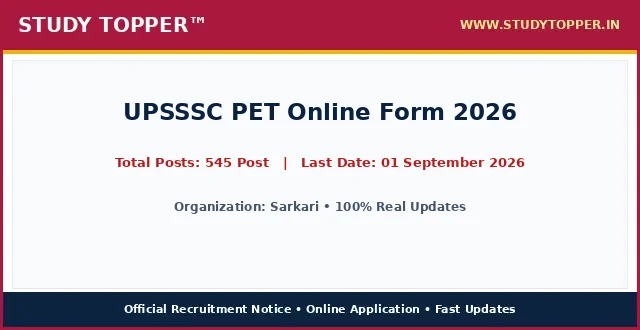
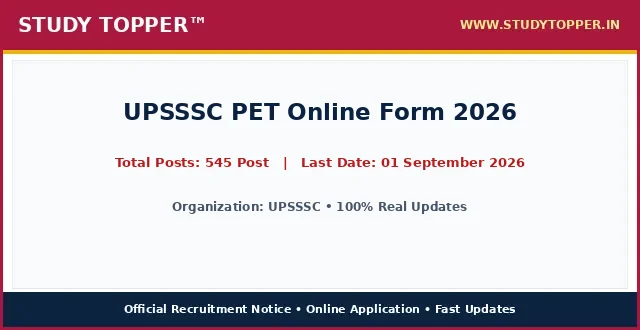
chore(lifecycle): daily auto-sort vacancies and update active dates

Changed region(s): [[0.25, 0.6061, 0.75, 0.6667]]

diff --git a/pages/upsssc-pet-2026.html b/pages/upsssc-pet-2026.html
@@ -987,12 +987,12 @@ ul.wp-block-latest-posts a:hover {
 <main class="site-main" id="main">
 <div class="gb-container gb-container-b39c368c">
 <h1 class="gb-headline gb-headline-e52a0102 gb-headline-text" style="font-size: 22px; font-weight: 700; color: #0000cd; text-align: left; margin: 8px 0 4px 0; line-height: 1.3; width: 100%; font-family: '-apple-system, BlinkMacSystemFont, 'Segoe UI', Roboto, 'Helvetica Neue', Arial, sans-serif', Times, serif, Hind, sans-serif;">UPSSSC PET Online Form 2026</h1>
-<div class="gb-container gb-container-659bd175"><p style="color: #cd0808; font-weight: 700; font-size: 15px; margin: 2px 0 7px 0; text-align: left; font-family: '-apple-system, BlinkMacSystemFont, 'Segoe UI', Roboto, 'Helvetica Neue', Arial, sans-serif', Times, serif, Hind, sans-serif;">Post Date: August 22, 2026 11:46 AM</p></div>
-<p class="gb-headline gb-headline-550ae316 short_Details gb-headline-text" style="width: 100%; max-width: 100%; font-size: 16.8px; line-height: 1.55; color: #000000; text-align: justify; text-justify: inter-word; margin: 8px 0 14px 0; display: block; font-family: '-apple-system, BlinkMacSystemFont, 'Segoe UI', Roboto, 'Helvetica Neue', Arial, sans-serif', Times, serif, Hind, sans-serif;"><strong style="color: #0000cd;">Sarkari</strong> has officially published the recruitment notice <strong style="color: #cd0808;">UPSSSC PET Online Form 2026</strong> under notification number Official Advt 2026. Online applications are invited for 545 Post across multiple departments and cadre positions. Interested candidates possessing the requisite educational qualifications and falling between 18 Years to 40 Years can complete their online registration before the application deadline of 01 September 2026. Applicants should read the eligibility criteria, category reservation rules, and exam scheme thoroughly before submitting applications.</p>
+<div class="gb-container gb-container-659bd175"><p style="color: #cd0808; font-weight: 700; font-size: 15px; margin: 2px 0 7px 0; text-align: left; font-family: '-apple-system, BlinkMacSystemFont, 'Segoe UI', Roboto, 'Helvetica Neue', Arial, sans-serif', Times, serif, Hind, sans-serif;">Post Date: August 22, 2026 12:40 PM</p></div>
+<p class="gb-headline gb-headline-550ae316 short_Details gb-headline-text" style="width: 100%; max-width: 100%; font-size: 16.8px; line-height: 1.55; color: #000000; text-align: justify; text-justify: inter-word; margin: 8px 0 14px 0; display: block; font-family: '-apple-system, BlinkMacSystemFont, 'Segoe UI', Roboto, 'Helvetica Neue', Arial, sans-serif', Times, serif, Hind, sans-serif;"><strong style="color: #0000cd;">UPSSSC</strong> has officially published the recruitment notice <strong style="color: #cd0808;">UPSSSC PET Online Form 2026</strong> under notification number 2026. Online applications are invited for 545 Post across multiple departments and cadre positions. Interested candidates possessing the requisite educational qualifications and falling between 18 Years to 40 Years can complete their online registration before the application deadline of 01 September 2026. Applicants should read the eligibility criteria, category reservation rules, and exam scheme thoroughly before submitting applications.</p>
 <div class="gb-container gb-container-9849916c"><div class="social-buttons-compact" style="display: flex; justify-content: flex-start; align-items: center; gap: 10px; margin: 10px 0 16px 0; width: 100%;"><a class="social-btn-compact wa" href="https://whatsapp.com/channel/0029Va9xyz" rel="noopener" style="background-color: #00d084; color: #ffffff; padding: 10px 18px; border-radius: 4px; text-decoration: none; font-weight: bold; font-size: 15.5px; display: inline-flex; align-items: center; justify-content: center; height: auto;" target="_blank">WhatsApp</a><a class="social-btn-compact tg" href="https://t.me/studytopperofficial" rel="noopener" style="background-color: #0088cc; color: #ffffff; padding: 10px 18px; border-radius: 4px; text-decoration: none; font-weight: bold; font-size: 15.5px; display: inline-flex; align-items: center; justify-content: center; height: auto;" target="_blank">Telegram</a></div></div>
 <div class="gb-container gb-container-f58e6ca1" style="border: 2px solid #5b032f; border-radius: 4px; overflow: hidden; margin: 15px 0 20px 0; background-color: #ffffff; width: 100%; box-sizing: border-box;">
 <h2 class="gb-headline gb-headline-2ca5a791 gb-headline-text" style="font-size: 16px; font-weight: 700; text-align: center; color: #ef0303; line-height: 1.3; padding: 6px 4px; margin: 0; background: #ffffff; font-family: '-apple-system, BlinkMacSystemFont, 'Segoe UI', Roboto, 'Helvetica Neue', Arial, sans-serif', Times, serif, Hind, sans-serif;">UPSSSC PET Online Form 2026 &ndash; Latest Details &amp; Updates</h2>
-<h3 class="gb-headline gb-headline-7d5f86e8 gb-headline-text" style="font-size: 16px; font-weight: 600; text-align: center; color: #009703; line-height: 1.25; margin: 0; padding: 2px 4px 6px 4px; background: #ffffff; font-family: '-apple-system, BlinkMacSystemFont, 'Segoe UI', Roboto, 'Helvetica Neue', Arial, sans-serif', Times, serif, Hind, sans-serif;">Sarkari : Details &amp; Summary</h3>
+<h3 class="gb-headline gb-headline-7d5f86e8 gb-headline-text" style="font-size: 16px; font-weight: 600; text-align: center; color: #009703; line-height: 1.25; margin: 0; padding: 2px 4px 6px 4px; background: #ffffff; font-family: '-apple-system, BlinkMacSystemFont, 'Segoe UI', Roboto, 'Helvetica Neue', Arial, sans-serif', Times, serif, Hind, sans-serif;">UPSSSC : Details &amp; Summary</h3>
 <p class="gb-headline gb-headline-79adf169 gb-headline-text" style="margin: 0 0 6px 0; font-family: '-apple-system, BlinkMacSystemFont, 'Segoe UI', Roboto, 'Helvetica Neue', Arial, sans-serif', Times, serif, Hind, sans-serif; text-align: center; font-size: 18px; font-weight: 700;"><a href="/" style="color: #0000ff; text-decoration: underline;">StudyTopper.in</a></p>
 
 <style id="st-post-boxes-responsive-css">
@@ -1025,7 +1025,7 @@ ul.wp-block-latest-posts a:hover {
     <div style="background-color: #5b032f; color: #ffffff; padding: 8px 10px; font-size: 20px; font-weight: 700; text-align: center; font-family: '-apple-system, BlinkMacSystemFont, 'Segoe UI', Roboto, 'Helvetica Neue', Arial, sans-serif', Times, serif, Hind, sans-serif;">Important Dates</div>
     <div style="padding: 12px 14px; background-color: #ffffff;">
       <ul style="padding-left: 20px; margin: 0; list-style-type: disc; text-align: left; font-size: 14pt; line-height: 1.6; font-family: '-apple-system, BlinkMacSystemFont, 'Segoe UI', Roboto, 'Helvetica Neue', Arial, sans-serif', Times, serif, Hind, sans-serif;">
-        
+        <li><span style="font-size: 14pt;">Application Begin : <strong>As per Official Notification</strong></span></li><li><span style="font-size: 14pt;">Last Date for Apply Online : <span style="color: #ff0000;"><strong>01 September 2026</strong></span></span></li><li><span style="font-size: 14pt;">Pay Exam Fee Last Date : <span style="color: #ff0000;"><strong>01 September 2026</strong></span></span></li><li><span style="font-size: 14pt;">Exam Date : <strong>As per Schedule</strong></span></li><li><span style="font-size: 14pt;">Admit Card Available : <strong>Before Examination</strong></span></li>
       </ul>
     </div>
   </div>
@@ -1034,7 +1034,7 @@ ul.wp-block-latest-posts a:hover {
     <div style="background-color: #5b032f; color: #ffffff; padding: 8px 10px; font-size: 20px; font-weight: 700; text-align: center; font-family: '-apple-system, BlinkMacSystemFont, 'Segoe UI', Roboto, 'Helvetica Neue', Arial, sans-serif', Times, serif, Hind, sans-serif;">Application Fee</div>
     <div style="padding: 12px 14px; background-color: #ffffff;">
       <ul style="padding-left: 20px; margin: 0; list-style-type: disc; text-align: left; font-size: 14pt; line-height: 1.6; font-family: '-apple-system, BlinkMacSystemFont, 'Segoe UI', Roboto, 'Helvetica Neue', Arial, sans-serif', Times, serif, Hind, sans-serif;">
-        <li><span style="font-size: 14pt;">Bihar Police BPSSC Sub Inspector SI Prohibition Result 2026 Advt. No. : <strong>03/2026</strong></span></li><li><span style="font-size: 14pt;">UP Scholarship Online Form 2026 : <strong>2027</strong></span></li>
+        <li><span style="font-size: 14pt;">General / OBC / EWS : <strong>Check Official Notification</strong></span></li><li><span style="font-size: 14pt;">SC / ST / PH : <strong>Check Official Notification</strong></span></li><li><span style="font-size: 14pt;">Payment Mode : <strong>Online Fee Mode via Net Banking, Debit/Credit Card or Offline Challan</strong></span></li>
       </ul>
       <div style="margin-top: 10px; font-size: 14pt; line-height: 1.5; color: #000000; border-top: 1px dashed #ccc; padding-top: 8px; font-family: '-apple-system, BlinkMacSystemFont, 'Segoe UI', Roboto, 'Helvetica Neue', Arial, sans-serif', Times, serif, Hind, sans-serif;">
         <strong>Mode of Payment / Access:</strong> Online via Net Banking, Debit Card, Credit Card, UPI or Free Candidate Portal.
@@ -1047,10 +1047,10 @@ ul.wp-block-latest-posts a:hover {
 <div class="st-grid-row" style="display: flex; flex-wrap: wrap; width: 100%; border-top: 2px solid #5b032f; margin: 0; padding: 0; box-sizing: border-box;">
   <!-- Left Col: Age Limits -->
   <div class="st-col-half st-col-border-right" style="box-sizing: border-box; vertical-align: top;">
-    <div style="background-color: #046132; color: #ffffff; padding: 8px 10px; font-size: 17px; font-weight: 700; text-align: center; font-family: '-apple-system, BlinkMacSystemFont, 'Segoe UI', Roboto, 'Helvetica Neue', Arial, sans-serif', Times, serif, Hind, sans-serif;">Sarkari : Age Limits As On 01 August 2026</div>
+    <div style="background-color: #046132; color: #ffffff; padding: 8px 10px; font-size: 17px; font-weight: 700; text-align: center; font-family: '-apple-system, BlinkMacSystemFont, 'Segoe UI', Roboto, 'Helvetica Neue', Arial, sans-serif', Times, serif, Hind, sans-serif;">UPSSSC : Age Limits As On 01/08/2026</div>
     <div style="padding: 12px 14px; background-color: #ffffff;">
       <ul style="padding-left: 20px; margin: 0; list-style-type: disc; text-align: left; font-size: 14pt; line-height: 1.6; font-family: '-apple-system, BlinkMacSystemFont, 'Segoe UI', Roboto, 'Helvetica Neue', Arial, sans-serif', Times, serif, Hind, sans-serif;">
-        
+        <li><span style="font-size: 14pt;">Minimum Age : <strong>18 Years (As per post rules)</strong></span></li><li><span style="font-size: 14pt;">Maximum Age : <strong>40 Years (As per post rules)</strong></span></li><li><span style="font-size: 14pt;">Age Relaxation : <strong>Age Relaxation Extra as per UPSSSC Recruitment Rules.</strong></span></li>
       </ul>
     </div>
   </div>
@@ -1079,9 +1079,9 @@ ul.wp-block-latest-posts a:hover {
 <th style="background-color: #f53c00; color: #ffffff; padding: 6px 10px; text-align: center; border: 1px solid #d35400; font-size: 15px; font-weight: 700; font-family: '-apple-system, BlinkMacSystemFont, 'Segoe UI', Roboto, 'Helvetica Neue', Arial, sans-serif', Times, serif, Hind, sans-serif;">Eligibility Criteria</th>
 </tr>
 <tr>
-<td style="padding: 8px; border: 1px solid #ddd; font-weight: bold;">Sarkari Recruitment</td>
+<td style="padding: 8px; border: 1px solid #ddd; font-weight: bold;">UPSSSC UPSSSC PET Online Form 2026</td>
 <td style="padding: 8px; border: 1px solid #ddd; text-align: center; font-weight: bold;">545 Post</td>
-<td style="padding: 8px; border: 1px solid #ddd;">Please refer to the official notification linked below for detailed educational qualifications.</td>
+<td style="padding: 8px; border: 1px solid #ddd;">Passed relevant Educational Qualification from Any Recognized Board / University in India. Read full official notification for post-wise details.</td>
 </tr>
 </tbody>
 </table>
@@ -1093,10 +1093,10 @@ ul.wp-block-latest-posts a:hover {
 <table style="border-collapse: collapse; width: 100%;">
 <tbody>
 <tr>
-<td style="width: 100%; text-align: center;"><span style="background-color: #000080; color: #ffffff; font-size: 14pt; font-weight: bold; display: block; padding: 6px;"> How to Fill Sarkari Online Application Form </span></td>
+<td style="width: 100%; text-align: center;"><span style="background-color: #000080; color: #ffffff; font-size: 14pt; font-weight: bold; display: block; padding: 6px;"> How to Fill UPSSSC Online Application Form </span></td>
 </tr>
 <tr>
-<td style="width: 100%;"><ol style="margin:0; padding-left:18px; text-align: left !important; list-style-position: outside !important"><li style="margin-bottom:6px; text-align: left !important;">Read the official recruitment notification carefully before applying.</li><li style="margin-bottom:6px; text-align: left !important;">Keep all basic documents ready: ID Proof, Address Details, Basic Details.</li><li style="margin-bottom:6px; text-align: left !important;">Ready your scanned documents like Photo, Signature, ID Proof, etc.</li><li style="margin-bottom:6px; text-align: left !important;">Click on the 'Apply Online' link given in the Important Links section below.</li><li style="margin-bottom:6px; text-align: left !important;">Fill out all the columns in the application form accurately.</li><li style="margin-bottom:6px; text-align: left !important;">Pay the required application fee if applicable.</li><li style="margin-bottom:6px; text-align: left !important;">Take a printout of the final submitted application form.</li><li style="margin-bottom:6px; text-align: left !important;">Resize candidate photograph and signature accurately using the <a href="https://indtool.in" rel="noopener" target="_blank"><strong>StudyTopper Tools</strong></a> image resizer at indtool.in.</li></ol></td>
+<td style="width: 100%;"><ol style="margin:0; padding-left:18px; text-align: left !important; list-style-position: outside !important"><li style="margin-bottom:6px; text-align: left !important;">Candidate must read the complete official notification issued by UPSSSC before applying.</li><li style="margin-bottom:6px; text-align: left !important;">Collect and verify all essential documents including Educational Proof, ID Proof, Address Details, and Basic Details.</li><li style="margin-bottom:6px; text-align: left !important;">Scan all necessary documents accurately: Passport Size Photograph, Signature, ID Proof, and Category Certificate.</li><li style="margin-bottom:6px; text-align: left !important;">Click on the 'Apply Online' link given in the Important Links section below on StudyTopper.</li><li style="margin-bottom:6px; text-align: left !important;">Fill all required personal, educational, and communication details in the application form carefully.</li><li style="margin-bottom:6px; text-align: left !important;">Review the application form preview thoroughly before final submission.</li><li style="margin-bottom:6px; text-align: left !important;">Pay the prescribed examination fee through online payment gateway if applicable.</li><li style="margin-bottom:6px; text-align: left !important;">Take a clean printout of the final submitted application form for future reference.</li><li style="margin-bottom:6px; text-align: left !important;">Resize candidate photograph and signature accurately using the <a href="https://indtool.in" rel="noopener" target="_blank"><strong>StudyTopper Tools</strong></a> image resizer at indtool.in.</li></ol></td>
 </tr>
 </tbody>
 </table>
@@ -1104,7 +1104,7 @@ ul.wp-block-latest-posts a:hover {
 <table style="border-collapse: collapse; width: 100%;">
 <tbody>
 <tr>
-<td style="width: 100%; text-align: center;"><span style="background-color: #000080; color: #ffffff; font-size: 14pt;"><strong><span style="color: #ffffff;"> Sarkari Recruitment 2026 : Mode Of Selection </span></strong></span></td>
+<td style="width: 100%; text-align: center;"><span style="background-color: #000080; color: #ffffff; font-size: 14pt;"><strong><span style="color: #ffffff;"> UPSSSC Recruitment 2026 : Mode Of Selection </span></strong></span></td>
 </tr>
 <tr>
 <td style="width: 100%;">
@@ -1144,26 +1144,34 @@ ul.wp-block-latest-posts a:hover {
 
 <tr style="border-bottom: 1px solid #000000; background-color: #fff37a;">
 <td style="width: 50%; padding: 14px 16px; border-right: 1px solid #000000; text-align: center;">
-<span style="font-size: 19px; font-weight: 800; color: #000000; font-family: '-apple-system, BlinkMacSystemFont, 'Segoe UI', Roboto, 'Helvetica Neue', Arial, sans-serif', Times, serif, Hind, sans-serif;">Apply Online Link</span>
+<span style="font-size: 19px; font-weight: 800; color: #000000; font-family: '-apple-system, BlinkMacSystemFont, 'Segoe UI', Roboto, 'Helvetica Neue', Arial, sans-serif', Times, serif, Hind, sans-serif;">Join Our WhatsApp Channel</span>
 </td>
 <td style="width: 50%; padding: 14px 16px; text-align: center;">
-<span style="font-size: 20px; font-weight: 800; font-family: '-apple-system, BlinkMacSystemFont, 'Segoe UI', Roboto, 'Helvetica Neue', Arial, sans-serif', Times, serif, Hind, sans-serif;"><a href="https://www.sarkariresult.com/2026/mpesb-group2-subgroup-4-aug26/" aria-label="Click Here for Apply Online Link - UPSSSC PET Online Form 2026" rel="noopener noreferrer" style="color: #0000ef; font-weight: 800; text-decoration: none;" target="_blank">Click Here</a></span>
+<span style="font-size: 20px; font-weight: 800; font-family: '-apple-system, BlinkMacSystemFont, 'Segoe UI', Roboto, 'Helvetica Neue', Arial, sans-serif', Times, serif, Hind, sans-serif;"><a href="https://whatsapp.com/channel/0029VavXmlBEAKWFRHeXwL28" aria-label="Click Here for Join Our WhatsApp Channel - UPSSSC PET Online Form 2026" rel="noopener noreferrer" style="color: #0000ef; font-weight: 800; text-decoration: none;" target="_blank">Click Here</a></span>
 </td>
 </tr>
 <tr style="border-bottom: 1px solid #000000; background-color: #fff37a;">
 <td style="width: 50%; padding: 14px 16px; border-right: 1px solid #000000; text-align: center;">
-<span style="font-size: 19px; font-weight: 800; color: #000000; font-family: '-apple-system, BlinkMacSystemFont, 'Segoe UI', Roboto, 'Helvetica Neue', Arial, sans-serif', Times, serif, Hind, sans-serif;">Check Official Notification</span>
+<span style="font-size: 19px; font-weight: 800; color: #000000; font-family: '-apple-system, BlinkMacSystemFont, 'Segoe UI', Roboto, 'Helvetica Neue', Arial, sans-serif', Times, serif, Hind, sans-serif;">Join Our Telegram Channel</span>
 </td>
 <td style="width: 50%; padding: 14px 16px; text-align: center;">
-<span style="font-size: 20px; font-weight: 800; font-family: '-apple-system, BlinkMacSystemFont, 'Segoe UI', Roboto, 'Helvetica Neue', Arial, sans-serif', Times, serif, Hind, sans-serif;"><a href="" aria-label="Click Here for Check Official Notification - UPSSSC PET Online Form 2026" rel="noopener noreferrer" style="color: #0000ef; font-weight: 800; text-decoration: none;" target="_blank">Click Here</a></span>
+<span style="font-size: 20px; font-weight: 800; font-family: '-apple-system, BlinkMacSystemFont, 'Segoe UI', Roboto, 'Helvetica Neue', Arial, sans-serif', Times, serif, Hind, sans-serif;"><a href="https://t.me/sarkariresultoficial" aria-label="Click Here for Join Our Telegram Channel - UPSSSC PET Online Form 2026" rel="noopener noreferrer" style="color: #0000ef; font-weight: 800; text-decoration: none;" target="_blank">Click Here</a></span>
 </td>
 </tr>
 <tr style="border-bottom: 1px solid #000000; background-color: #fff37a;">
 <td style="width: 50%; padding: 14px 16px; border-right: 1px solid #000000; text-align: center;">
-<span style="font-size: 19px; font-weight: 800; color: #000000; font-family: '-apple-system, BlinkMacSystemFont, 'Segoe UI', Roboto, 'Helvetica Neue', Arial, sans-serif', Times, serif, Hind, sans-serif;">Photo / Sign Resizer Tool</span>
+<span style="font-size: 19px; font-weight: 800; color: #000000; font-family: '-apple-system, BlinkMacSystemFont, 'Segoe UI', Roboto, 'Helvetica Neue', Arial, sans-serif', Times, serif, Hind, sans-serif;">Apply Online</span>
 </td>
 <td style="width: 50%; padding: 14px 16px; text-align: center;">
-<span style="font-size: 20px; font-weight: 800; font-family: '-apple-system, BlinkMacSystemFont, 'Segoe UI', Roboto, 'Helvetica Neue', Arial, sans-serif', Times, serif, Hind, sans-serif;"><a href="https://indtool.in" aria-label="Click Here for Photo / Sign Resizer Tool - UPSSSC PET Online Form 2026" rel="noopener noreferrer" style="color: #0000ef; font-weight: 800; text-decoration: none;" target="_blank">Click Here</a></span>
+<span style="font-size: 20px; font-weight: 800; font-family: '-apple-system, BlinkMacSystemFont, 'Segoe UI', Roboto, 'Helvetica Neue', Arial, sans-serif', Times, serif, Hind, sans-serif;"><a href="https://upsssc.gov.in/AllNotifications.aspx" aria-label="Click Here for Apply Online - UPSSSC PET Online Form 2026" rel="noopener noreferrer" style="color: #0000ef; font-weight: 800; text-decoration: none;" target="_blank">Click Here</a></span>
+</td>
+</tr>
+<tr style="border-bottom: 1px solid #000000; background-color: #fff37a;">
+<td style="width: 50%; padding: 14px 16px; border-right: 1px solid #000000; text-align: center;">
+<span style="font-size: 19px; font-weight: 800; color: #000000; font-family: '-apple-system, BlinkMacSystemFont, 'Segoe UI', Roboto, 'Helvetica Neue', Arial, sans-serif', Times, serif, Hind, sans-serif;">Official Notification</span>
+</td>
+<td style="width: 50%; padding: 14px 16px; text-align: center;">
+<span style="font-size: 20px; font-weight: 800; font-family: '-apple-system, BlinkMacSystemFont, 'Segoe UI', Roboto, 'Helvetica Neue', Arial, sans-serif', Times, serif, Hind, sans-serif;"><a href="https://upsssc.gov.in/ViewPdf.aspx?mQakfo5LrW2Cdx4YG2/st+GVGmBBNX8aG1X69whn6lU=" aria-label="Click Here for Official Notification - UPSSSC PET Online Form 2026" rel="noopener noreferrer" style="color: #0000ef; font-weight: 800; text-decoration: none;" target="_blank">Click Here</a></span>
 </td>
 </tr>
 <tr style="border-bottom: 1px solid #000000; background-color: #fff37a;">
@@ -1171,15 +1179,55 @@ ul.wp-block-latest-posts a:hover {
 <span style="font-size: 19px; font-weight: 800; color: #000000; font-family: '-apple-system, BlinkMacSystemFont, 'Segoe UI', Roboto, 'Helvetica Neue', Arial, sans-serif', Times, serif, Hind, sans-serif;">Check Sarkari Result</span>
 </td>
 <td style="width: 50%; padding: 14px 16px; text-align: center;">
-<span style="font-size: 20px; font-weight: 800; font-family: '-apple-system, BlinkMacSystemFont, 'Segoe UI', Roboto, 'Helvetica Neue', Arial, sans-serif', Times, serif, Hind, sans-serif;"><a href="/" aria-label="Click Here for Check Sarkari Result - UPSSSC PET Online Form 2026" rel="noopener noreferrer" style="color: #0000ef; font-weight: 800; text-decoration: none;" >Click Here</a></span>
+<span style="font-size: 20px; font-weight: 800; font-family: '-apple-system, BlinkMacSystemFont, 'Segoe UI', Roboto, 'Helvetica Neue', Arial, sans-serif', Times, serif, Hind, sans-serif;"><a href="https://sarkariresult.com.cm/" aria-label="Click Here for Check Sarkari Result - UPSSSC PET Online Form 2026" rel="noopener noreferrer" style="color: #0000ef; font-weight: 800; text-decoration: none;" target="_blank">Click Here</a></span>
+</td>
+</tr>
+<tr style="border-bottom: 1px solid #000000; background-color: #fff37a;">
+<td style="width: 50%; padding: 14px 16px; border-right: 1px solid #000000; text-align: center;">
+<span style="font-size: 19px; font-weight: 800; color: #000000; font-family: '-apple-system, BlinkMacSystemFont, 'Segoe UI', Roboto, 'Helvetica Neue', Arial, sans-serif', Times, serif, Hind, sans-serif;">Official Website</span>
+</td>
+<td style="width: 50%; padding: 14px 16px; text-align: center;">
+<span style="font-size: 20px; font-weight: 800; font-family: '-apple-system, BlinkMacSystemFont, 'Segoe UI', Roboto, 'Helvetica Neue', Arial, sans-serif', Times, serif, Hind, sans-serif;"><a href="https://upsssc.gov.in/" aria-label="Click Here for Official Website - UPSSSC PET Online Form 2026" rel="noopener noreferrer" style="color: #0000ef; font-weight: 800; text-decoration: none;" target="_blank">Click Here</a></span>
+</td>
+</tr>
+<tr style="border-bottom: 1px solid #000000; background-color: #fff37a;">
+<td style="width: 50%; padding: 14px 16px; border-right: 1px solid #000000; text-align: center;">
+<span style="font-size: 19px; font-weight: 800; color: #000000; font-family: '-apple-system, BlinkMacSystemFont, 'Segoe UI', Roboto, 'Helvetica Neue', Arial, sans-serif', Times, serif, Hind, sans-serif;">Latest Posts Haryana HTET Score Card 2026 – Out SSC Delhi Police Constable (Executive) PE & MT Notice 2026 UPSC CDS-II Final Result With Marks 2026 IDBI JAM Final Result 2026 Railway RRB ALP Application Status 2026 – Out</span>
+</td>
+<td style="width: 50%; padding: 14px 16px; text-align: center;">
+<span style="font-size: 20px; font-weight: 800; font-family: '-apple-system, BlinkMacSystemFont, 'Segoe UI', Roboto, 'Helvetica Neue', Arial, sans-serif', Times, serif, Hind, sans-serif;"><a href="https://sarkariresult.com.cm/ssc-delhi-police-constable-executive-2026/" aria-label="Click Here for Latest Posts Haryana HTET Score Card 2026 – Out SSC Delhi Police Constable (Executive) PE & MT Notice 2026 UPSC CDS-II Final Result With Marks 2026 IDBI JAM Final Result 2026 Railway RRB ALP Application Status 2026 – Out - UPSSSC PET Online Form 2026" rel="noopener noreferrer" style="color: #0000ef; font-weight: 800; text-decoration: none;" target="_blank">Click Here</a></span>
+</td>
+</tr>
+<tr style="border-bottom: 1px solid #000000; background-color: #fff37a;">
+<td style="width: 50%; padding: 14px 16px; border-right: 1px solid #000000; text-align: center;">
+<span style="font-size: 19px; font-weight: 800; color: #000000; font-family: '-apple-system, BlinkMacSystemFont, 'Segoe UI', Roboto, 'Helvetica Neue', Arial, sans-serif', Times, serif, Hind, sans-serif;">Latest Posts Haryana HTET Score Card 2026 – Out SSC Delhi Police Constable (Executive) PE & MT Notice 2026 UPSC CDS-II Final Result With Marks 2026 IDBI JAM Final Result 2026 Railway RRB ALP Application Status 2026 – Out</span>
+</td>
+<td style="width: 50%; padding: 14px 16px; text-align: center;">
+<span style="font-size: 20px; font-weight: 800; font-family: '-apple-system, BlinkMacSystemFont, 'Segoe UI', Roboto, 'Helvetica Neue', Arial, sans-serif', Times, serif, Hind, sans-serif;"><a href="https://sarkariresult.com.cm/ssc-selection-phase-14-2026/" aria-label="Click Here for Latest Posts Haryana HTET Score Card 2026 – Out SSC Delhi Police Constable (Executive) PE & MT Notice 2026 UPSC CDS-II Final Result With Marks 2026 IDBI JAM Final Result 2026 Railway RRB ALP Application Status 2026 – Out - UPSSSC PET Online Form 2026" rel="noopener noreferrer" style="color: #0000ef; font-weight: 800; text-decoration: none;" target="_blank">Click Here</a></span>
+</td>
+</tr>
+<tr style="border-bottom: 1px solid #000000; background-color: #fff37a;">
+<td style="width: 50%; padding: 14px 16px; border-right: 1px solid #000000; text-align: center;">
+<span style="font-size: 19px; font-weight: 800; color: #000000; font-family: '-apple-system, BlinkMacSystemFont, 'Segoe UI', Roboto, 'Helvetica Neue', Arial, sans-serif', Times, serif, Hind, sans-serif;">Latest Posts Haryana HTET Score Card 2026 – Out SSC Delhi Police Constable (Executive) PE & MT Notice 2026 UPSC CDS-II Final Result With Marks 2026 IDBI JAM Final Result 2026 Railway RRB ALP Application Status 2026 – Out</span>
+</td>
+<td style="width: 50%; padding: 14px 16px; text-align: center;">
+<span style="font-size: 20px; font-weight: 800; font-family: '-apple-system, BlinkMacSystemFont, 'Segoe UI', Roboto, 'Helvetica Neue', Arial, sans-serif', Times, serif, Hind, sans-serif;"><a href="https://sarkariresult.com.cm/upsssc-stenographer-2025/" aria-label="Click Here for Latest Posts Haryana HTET Score Card 2026 – Out SSC Delhi Police Constable (Executive) PE & MT Notice 2026 UPSC CDS-II Final Result With Marks 2026 IDBI JAM Final Result 2026 Railway RRB ALP Application Status 2026 – Out - UPSSSC PET Online Form 2026" rel="noopener noreferrer" style="color: #0000ef; font-weight: 800; text-decoration: none;" target="_blank">Click Here</a></span>
+</td>
+</tr>
+<tr style="border-bottom: 1px solid #000000; background-color: #fff37a;">
+<td style="width: 50%; padding: 14px 16px; border-right: 1px solid #000000; text-align: center;">
+<span style="font-size: 19px; font-weight: 800; color: #000000; font-family: '-apple-system, BlinkMacSystemFont, 'Segoe UI', Roboto, 'Helvetica Neue', Arial, sans-serif', Times, serif, Hind, sans-serif;">Latest Posts Haryana HTET Score Card 2026 – Out SSC Delhi Police Constable (Executive) PE & MT Notice 2026 UPSC CDS-II Final Result With Marks 2026 IDBI JAM Final Result 2026 Railway RRB ALP Application Status 2026 – Out</span>
+</td>
+<td style="width: 50%; padding: 14px 16px; text-align: center;">
+<span style="font-size: 20px; font-weight: 800; font-family: '-apple-system, BlinkMacSystemFont, 'Segoe UI', Roboto, 'Helvetica Neue', Arial, sans-serif', Times, serif, Hind, sans-serif;"><a href="https://sarkariresult.com.cm/railway-rrb-group-d-level-1-recruitment-2026-online/" aria-label="Click Here for Latest Posts Haryana HTET Score Card 2026 – Out SSC Delhi Police Constable (Executive) PE & MT Notice 2026 UPSC CDS-II Final Result With Marks 2026 IDBI JAM Final Result 2026 Railway RRB ALP Application Status 2026 – Out - UPSSSC PET Online Form 2026" rel="noopener noreferrer" style="color: #0000ef; font-weight: 800; text-decoration: none;" target="_blank">Click Here</a></span>
 </td>
 </tr>
 <tr style=" background-color: #fff37a;">
 <td style="width: 50%; padding: 14px 16px; border-right: 1px solid #000000; text-align: center;">
-<span style="font-size: 19px; font-weight: 800; color: #000000; font-family: '-apple-system, BlinkMacSystemFont, 'Segoe UI', Roboto, 'Helvetica Neue', Arial, sans-serif', Times, serif, Hind, sans-serif;">Sarkari Website</span>
+<span style="font-size: 19px; font-weight: 800; color: #000000; font-family: '-apple-system, BlinkMacSystemFont, 'Segoe UI', Roboto, 'Helvetica Neue', Arial, sans-serif', Times, serif, Hind, sans-serif;">Latest Posts Haryana HTET Score Card 2026 – Out SSC Delhi Police Constable (Executive) PE & MT Notice 2026 UPSC CDS-II Final Result With Marks 2026 IDBI JAM Final Result 2026 Railway RRB ALP Application Status 2026 – Out</span>
 </td>
 <td style="width: 50%; padding: 14px 16px; text-align: center;">
-<span style="font-size: 20px; font-weight: 800; font-family: '-apple-system, BlinkMacSystemFont, 'Segoe UI', Roboto, 'Helvetica Neue', Arial, sans-serif', Times, serif, Hind, sans-serif;"><a href="" aria-label="Click Here for Sarkari Website - UPSSSC PET Online Form 2026" rel="noopener noreferrer" style="color: #0000ef; font-weight: 800; text-decoration: none;" target="_blank">Click Here</a></span>
+<span style="font-size: 20px; font-weight: 800; font-family: '-apple-system, BlinkMacSystemFont, 'Segoe UI', Roboto, 'Helvetica Neue', Arial, sans-serif', Times, serif, Hind, sans-serif;"><a href="https://sarkariresult.com.cm/uppsc-gic-lecturer-2025/" aria-label="Click Here for Latest Posts Haryana HTET Score Card 2026 – Out SSC Delhi Police Constable (Executive) PE & MT Notice 2026 UPSC CDS-II Final Result With Marks 2026 IDBI JAM Final Result 2026 Railway RRB ALP Application Status 2026 – Out - UPSSSC PET Online Form 2026" rel="noopener noreferrer" style="color: #0000ef; font-weight: 800; text-decoration: none;" target="_blank">Click Here</a></span>
 </td>
 </tr>
 </tbody>
@@ -1193,8 +1241,8 @@ ul.wp-block-latest-posts a:hover {
   <div style="font-size: 14.5px; line-height: 1.65; color: #222222;">
     <p style="margin: 0 0 4px 0;"><strong style="color: #000080;">Q1. What is the last date to apply for UPSSSC PET Online Form 2026?</strong></p>
 <p style="margin: 0 0 16px 0; color: #333333; line-height: 1.6;">Ans. The last date for online submission of application is 01 September 2026.</p><p style="margin: 0 0 4px 0;"><strong style="color: #000080;">Q2. What is the age limit for UPSSSC PET Online Form 2026?</strong></p>
-<p style="margin: 0 0 16px 0; color: #333333; line-height: 1.6;">Ans. Candidate age should generally be between 18 Years and 40 Years as on 01 August 2026. Age relaxation is applicable per rules.</p><p style="margin: 0 0 4px 0;"><strong style="color: #000080;">Q3. What is the application fee for UPSSSC PET Online Form 2026?</strong></p>
-<p style="margin: 0 0 16px 0; color: #333333; line-height: 1.6;">Ans. Application fee varies by category (e.g., General/OBC: Rs. 100/-, SC/ST/PwD: Exempted).</p><p style="margin: 0 0 4px 0;"><strong style="color: #000080;">Q4. How many total posts are available in UPSSSC PET Online Form 2026?</strong></p>
+<p style="margin: 0 0 16px 0; color: #333333; line-height: 1.6;">Ans. Candidate age should generally be between 18 Years and 40 Years as on 01/08/2026. Age relaxation is applicable per rules.</p><p style="margin: 0 0 4px 0;"><strong style="color: #000080;">Q3. What is the application fee for UPSSSC PET Online Form 2026?</strong></p>
+<p style="margin: 0 0 16px 0; color: #333333; line-height: 1.6;">Ans. Application fee varies by category (e.g., General/OBC: Check Official Notification, SC/ST/PwD: Exempted).</p><p style="margin: 0 0 4px 0;"><strong style="color: #000080;">Q4. How many total posts are available in UPSSSC PET Online Form 2026?</strong></p>
 <p style="margin: 0 0 16px 0; color: #333333; line-height: 1.6;">Ans. A total of 545 Post have been officially announced for this recruitment drive.</p><p style="margin: 0 0 4px 0;"><strong style="color: #000080;">Q5. How can I apply online for UPSSSC PET Online Form 2026?</strong></p>
 <p style="margin: 0 0 0 0; color: #333333; line-height: 1.6;">Ans. Eligible candidates can click the 'Apply Online' link in the Important Links table, register, fill details, resize photo/signature via indtool.in, and submit before 01 September 2026.</p>
   </div>
